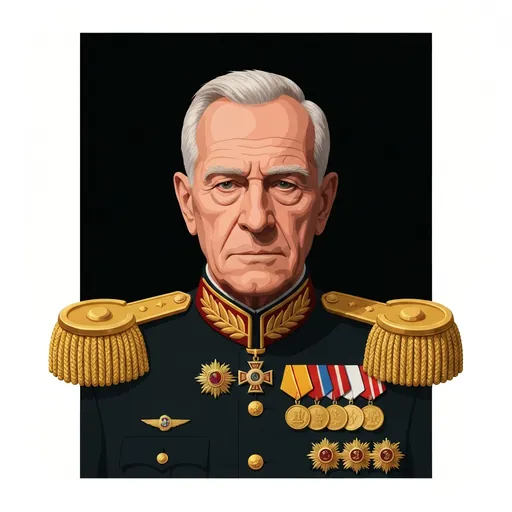
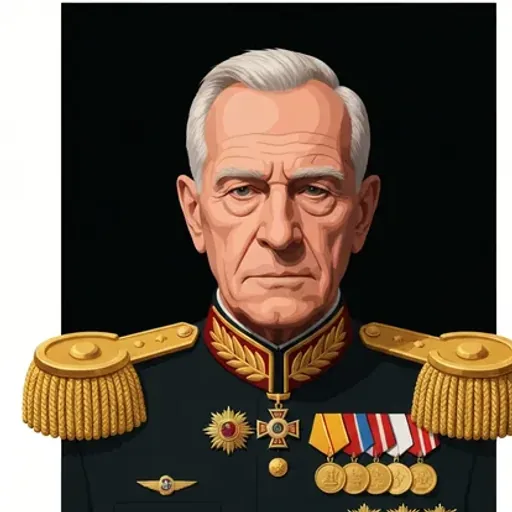
perf+style: оптимизация загрузки, стилевая доводка, чистка
Производительность:
- Шрифты вынесены из CSS @user в <link> (preconnect, урезаны веса)
- Code-splitting: vendor (React) отдельным чанком от кода игры
- Предзагрузка портретов и фонов карт на старте (свайп без мерцания)

Стиль:
- Обрезана белая рамка у портрета Громова (чёрный фон до краёв)
- Имперский орёл фоном на десктопе (по бокам колонки 460px)

Чистка/качество:
- Удалены 12 неиспользуемых WebP (лишние концовки, растровые иконки)
- Удалено мёртвое поле icon из params.js (рендерит SVG FactionIcon)
- ESLint: 13 ошибок → 0 (allowEmptyCatch, caughtErrors none, unused var)
- Добавлен docs/optimization-plan.md

diff --git a/src/App.css b/src/App.css
@@ -1,4 +1,4 @@
-@import url('https://fonts.googleapis.com/css2?family=Inter:wght@400;500;600;700;800&family=JetBrains+Mono:wght@400;500;700&family=Playfair+Display:wght@700;900&display=swap');
+/* Шрифты подключены через <link> в index.html (preconnect, без render-blocking @import). */
 
 :root {
   /* Дизайн-токены (цвета) */
@@ -178,8 +178,14 @@ em, i { font-style: normal; }
 /* ─── ДЕСКТОП: рамка «устройства» по центру + имперский фон по бокам ─── */
 @media (min-width: 540px) {
   html, body {
-    background:
-      radial-gradient(circle at 50% 34%, #1a0f06 0%, #0a0603 46%, #040201 100%);
+    background-color: #040201;
+    background-image:
+      radial-gradient(circle at 50% 34%, rgba(20, 12, 5, 0.82) 0%, rgba(10, 6, 3, 0.95) 44%, #040201 100%),
+      url('/images/imperial_eagle_cracked_1780579894115.webp');
+    background-repeat: no-repeat, no-repeat;
+    background-position: center, center top;
+    background-size: cover, min(620px, 60vh);
+    background-attachment: fixed, fixed;
   }
   .app-shell {
     max-width: 460px;

diff --git a/src/App.jsx b/src/App.jsx
@@ -216,7 +216,8 @@ import { telegramStorage } from "./utils/telegramStorage.js";
 
 // ─── ГЛАВНЫЙ КОМПОНЕНТ ────────────────────────────────────────────────────────
 export default function ThePresident() {
-  const [isInitializing, setIsInitializing] = useState(true);
+  // Значение не читается в UI; оставляем только сеттер (флаг инициализации).
+  const [, setIsInitializing] = useState(true);
 
   const [stats, setStats]               = useState({ oligarchs:50, army:50, people:50, west:50 });
   const [months, setMonths]             = useState(1);
@@ -338,6 +339,15 @@ export default function ThePresident() {
         try { tg.requestFullscreen(); } catch { /* Older Telegram clients can expose unsupported methods. */ }
       }, 500);
     }
+  }, []);
+
+  // Предзагрузка всех портретов и фонов карт на старте — свайп без мерцания.
+  // Картинки в WebP лёгкие (~10-60 КБ), суммарно безопасно для Mini App.
+  useEffect(() => {
+    const urls = new Set();
+    ADVISORS.forEach(a => a?.avatar && urls.add(getAsset(a.avatar)));
+    [...CARDS, ...CRISIS_CARDS].forEach(c => c?.bgImage && urls.add(getAsset(c.bgImage)));
+    urls.forEach(src => { const img = new Image(); img.src = src; });
   }, []);
 
   const currentCard = isCrisis && crisisCard ? crisisCard : deck[cardIdx % deck.length];

diff --git a/index.html b/index.html
@@ -5,7 +5,16 @@
     <link rel="icon" type="image/png" href="/images/favicon_eagle.png" />
     <meta name="viewport" content="width=device-width, initial-scale=1.0" />
     <title>Варония</title>
-    
+
+    <!-- Шрифты: preconnect + урезанные веса. Вынесено из CSS @import,
+         чтобы не блокировать парсинг стилей. display=swap убирает FOIT. -->
+    <link rel="preconnect" href="https://fonts.googleapis.com" />
+    <link rel="preconnect" href="https://fonts.gstatic.com" crossorigin />
+    <link
+      href="https://fonts.googleapis.com/css2?family=Inter:wght@400;600;700;800&family=JetBrains+Mono:wght@400;700&family=Playfair+Display:wght@700;900&display=swap"
+      rel="stylesheet"
+    />
+
     <!-- Open Graph / Telegram / Social Media -->
     <meta property="og:title" content="Варония — Симулятор Автократа" />
     <meta property="og:description" content="Удержите власть в вымышленном государстве. Балансируйте между армией, олигархами, народом и Западом." />

diff --git a/vite.config.js b/vite.config.js
@@ -7,4 +7,15 @@ export default defineConfig({
   // Относительный base: один билд работает и с корня домена (Timeweb),
   // и из подпапки. Абсолютный '/president-game/' ломал ассеты на Timeweb.
   base: './',
+  build: {
+    rollupOptions: {
+      output: {
+        // Вендор (node_modules) кэшируется отдельно от кода игры:
+        // при правках логики пользователь не перекачивает React.
+        manualChunks(id) {
+          if (id.includes('node_modules')) return 'vendor';
+        },
+      },
+    },
+  },
 })

diff --git a/eslint.config.js b/eslint.config.js
@@ -23,7 +23,10 @@ export default defineConfig([
       },
     },
     rules: {
-      'no-unused-vars': ['error', { varsIgnorePattern: '^[A-Z_]' }],
+      // caughtErrors: 'none' — не ругаться на неиспользуемый параметр catch (e).
+      'no-unused-vars': ['error', { varsIgnorePattern: '^[A-Z_]', caughtErrors: 'none' }],
+      // Пустой catch допустим: намеренные no-op для старых клиентов Telegram.
+      'no-empty': ['error', { allowEmptyCatch: true }],
     },
   },
 ])

diff --git a/src/data/params.js b/src/data/params.js
@@ -7,7 +7,6 @@ export const PARAMS = [
   {
     key: "oligarchs",
     label: "Олигархи",
-    icon: "/images/icon_oligarchs.webp",
     color: "#d4af37",
     deathLow: [
       "Утром пришёл звонок от Бориса Усманова. «Мы закрываем этот стартап», — сказал он. «Стартапом» были вы. К вечеру Госдума проголосовала за лишение вас полномочий. Единогласно.",
@@ -23,7 +22,6 @@ export const PARAMS = [
   {
     key: "army",
     label: "Силовики",
-    icon: "/images/icon_army.webp",
     color: "#c0392b",
     deathLow: [
       "Генерал Валерий Громов позвонил в четыре утра. «Господин Президент, армия благодарит вас за службу. Колонны техники уже на МКАДе». Это был вежливый арест.",
@@ -39,7 +37,6 @@ export const PARAMS = [
   {
     key: "people",
     label: "Население",
-    icon: "/images/icon_people.webp",
     color: "#27ae60",
     deathLow: [
       "Площадь перед Кремлем заполнилась за полчаса после объявления о повышении пенсионного возраста до 85 лет. К вечеру миллионная толпа смела кордоны Росгвардии.",
@@ -55,7 +52,6 @@ export const PARAMS = [
   {
     key: "west",
     label: "Колл. Запад",
-    icon: "/images/icon_west.webp",
     color: "#2980b9",
     deathLow: [
       "Тридцатый пакет санкций оказался не символическим. Импорт полностью встал, из аптек исчезли жизненно важные лекарства. Рунет отключен от мировой сети, наступил дефолт.",

diff --git a/docs/optimization-plan.md b/docs/optimization-plan.md
@@ -1,0 +1,129 @@
+# План оптимизации и стилевой доводки «Варония»
+
+Документ описывает приведение всего проекта к единому стилю портретов —
+**«имперский минимализм / тлен»** (чистый чёрный фон, плоский вектор, золото,
+сарказм, упадок империи) — плюс оптимизацию производительности и кода.
+
+Статус на момент написания: тема уже переведена в чёрно-золото, портреты
+интегрированы, картинки сжаты в WebP (52 МБ → 1.9 МБ), деплой на Timeweb работает.
+
+---
+
+## Принципы стиля (эталон — портреты советников)
+- **Фон:** чистый чёрный до краёв, без рамок.
+- **Палитра:** золото `#d4af37`, тёплый чёрный `#0a0603–#16100a`, оксблад для кризиса.
+  Акценты фракций (красный/зелёный/синий) — только в иконках/статусах.
+- **Форма:** плоский вектор, минимум деталей, крупный объект + негативное пространство.
+- **Тон:** сарказм, державный пафос с трещиной, «тлен».
+- **Типографика:** Playfair (лого) + Inter (UI) + JetBrains Mono (досье/чипы).
+
+---
+
+## 1. Стиль и визуал  🎨
+
+### 1.1 Высокий приоритет
+- [ ] **Перегенерировать 3 битых портрета** (Зубов=гриб, Сенин=киберпанк,
+      Патриарх=спорткар). Промпты — в плане проекта. После генерации:
+      `node scripts/webp-optimize.cjs` → подхватятся под теми же именами.
+- [ ] **Обрезать белую рамку у Громова** (`public/images/Gromov_Military.*`) —
+      фон должен быть чёрным до краёв, как у остальных.
+- [ ] **Единый кроп портретов** — у Усманова кадр «по грудь», у Власовой крупнее.
+      Привести к одному масштабу лица для ровного ряда.
+
+### 1.2 Средний приоритет
+- [ ] **Глобальный фон-атмосфера** из `imperial_eagle_cracked.webp` (золотой орёл
+      на треснутом камне) — на десктоп по бокам и/или как фон меню/гейм-овера.
+      Сейчас там просто тёмный градиент (`App.css`, `@media (min-width:540px)`).
+- [ ] **Карточные фоны (bgImage)** — проверить, что все 4 (`bg_money`,
+      `bg_war_room`, `bg_church_interior`, `bg_protest`) читаются на 22% opacity и
+      не превращаются в грязь. Возможно поднять контраст затемнением.
+- [ ] **Объекты-ассеты** (`asset_red_phone`, `briefcase_nuclear`, `oil_barrel`
+      и т.д.) — задействовать как иллюстрации кризис-карт вместо пустого
+      пространства в теле карты (сейчас слот не используется).
+
+### 1.3 Низкий приоритет
+- [ ] **Иконки статов** — оставить SVG (`FactionIcon`, `App.jsx:109-168`),
+      но перекрасить под золото/палитру для единства; растровые `icon_*.webp`
+      не использовать (мелкий размер → каша).
+- [ ] **Анимации перехода карт** — добавить лёгкий fade/parallax фона при свайпе
+      для ощущения «тлена» (есть `cardIn`, можно усилить).
+
+---
+
+## 2. Арт-ассеты  🖼️
+
+- [ ] **Удалить ~24 неиспользуемых WebP** из `public/images` (extra endings
+      `dictator/exile/puppet/revolution`, `bg_kremlin_office/oligarch_yacht/
+      press_conference/west`, `icon_*`, часть `asset_*`) — ИЛИ оставить как
+      осознанную «библиотеку» и задействовать (см. 1.2/1.3). Решить явно.
+- [ ] **Концовки** — догенерить недостающие под id игры (`zastoy` сейчас заглушка
+      = золотой трон; нужны точные `kooperativ`, `bunker`, `legenda` в стиле).
+- [ ] **bg_protest** — проверить, что новый фон народа/протеста в стиле.
+- [ ] Держать суммарный вес `public/images` в пределах ~1–2 МБ (Telegram Mini App).
+
+---
+
+## 3. Производительность  ⚡
+
+- [ ] **Шрифты: убрать render-blocking `@import`** из `App.css:1`. Перенести в
+      `index.html` как `<link rel="preconnect">` + `<link>` с `display=swap`,
+      и **урезать веса** (грузятся Inter 400-800, Playfair 700/900, Mono 400-700
+      — реально нужно меньше). Экономия первого рендера.
+- [ ] **Code-splitting бандла** — сейчас один JS-чанк **409 КБ** (119 КБ gzip).
+      Вынести данные карт/концовок (`src/data/*`) и тяжёлые экраны в ленивые
+      чанки (`React.lazy`), либо `manualChunks` в `vite.config`.
+- [ ] **Предзагрузка ближайших картинок** — портрет/фон следующей карты грузить
+      заранее (preload), чтобы свайп был без мерцания.
+- [ ] **`<img loading="lazy">`** для экранов концовок/досье.
+- [ ] **CI:** `npm ci` ставит `sharp` (devDep, не нужен для билда) — вынести
+      оптимизацию в отдельный шаг/скрипт, не тянуть на каждый деплой.
+
+---
+
+## 4. UX и адаптив  📱
+
+- [ ] **Десктоп** — рамка-«устройство» 460px по центру уже есть; добавить
+      атмосферный фон (см. 1.2) и проверить на 1440px+.
+- [ ] **Мобилки** — проверить контраст светлого текста на тёмных картах на
+      реальных устройствах (особенно мелкие чипы статов, `--text-xs`).
+- [ ] **Safe-area / Telegram** — проверить `tg-viewport-stable-height`,
+      нижние кнопки не под системной панелью.
+- [ ] **Тап/свайп** — индикатор свайпа («← СВАЙП ИЛИ ТАП →») и hover-штамп
+      проверить на тач-устройствах.
+
+---
+
+## 5. Код и качество  🧹
+
+- [ ] **Вынести инлайн-стили в классы.** Сейчас цвета/стили карт зашиты инлайн в
+      `App.jsx` (десятки мест) — при перекраске пришлось свипать вручную.
+      Перевести на CSS-переменные/классы для будущих стилевых правок.
+- [ ] **`App.jsx` слишком большой** (>1400 строк) — разбить на компоненты
+      (Onboarding, GameCard, Ending, GameOver, HubOverlay, StatsPanel).
+- [ ] **ESLint** — прогнать `npm run lint`, починить варнинги.
+- [ ] **Токены/секреты** — подтвердить, что ничего чувствительного нет в репо
+      (проверено: чисто). Бот-токен — только в @BotFather.
+- [ ] **Обновить GitHub Actions** на Node 24 (`checkout`, `setup-node`,
+      `FTP-Deploy-Action`) до дедлайна июнь/сентябрь 2026.
+
+---
+
+## Дорожная карта (фазы)
+
+| Фаза | Что | Эффект |
+|------|-----|--------|
+| **1. Контент** | Перегенерить 3 портрета + концовки, обрезать Громова | Завершить визуальную целостность |
+| **2. Стиль** | Перекрасить SVG-иконки, имперский фон десктопа, объекты в кризис-картах | Полное соответствие стилю портретов |
+| **3. Перф** | Шрифты, code-splitting, preload картинок | Быстрый старт в Telegram |
+| **4. Рефактор** | Разбить App.jsx, инлайн→классы, lint | Лёгкость будущих правок |
+| **5. Чистка** | Удалить/задействовать неиспользуемый арт, обновить Actions | Аккуратный репозиторий |
+
+---
+
+## Уже сделано ✅
+- Чёрно-золотая тема (тёмные карты, светлый текст, угольно-золотые шапки)
+- 5 готовых портретов интегрированы, бесшовное слияние чёрного фона с картой
+- Тёмный имперский фон вместо красного фетра
+- Десктоп: центрированная колонка 460px с золотой рамкой
+- WebP-оптимизация (52 МБ → 1.9 МБ), скрипт `scripts/webp-optimize.cjs`
+- Деплой на Timeweb (base `./`, `public_html`, clean-slate) — сайт работает